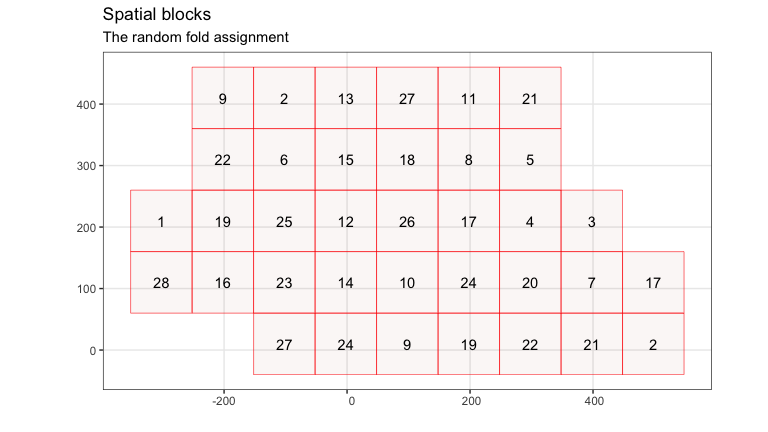
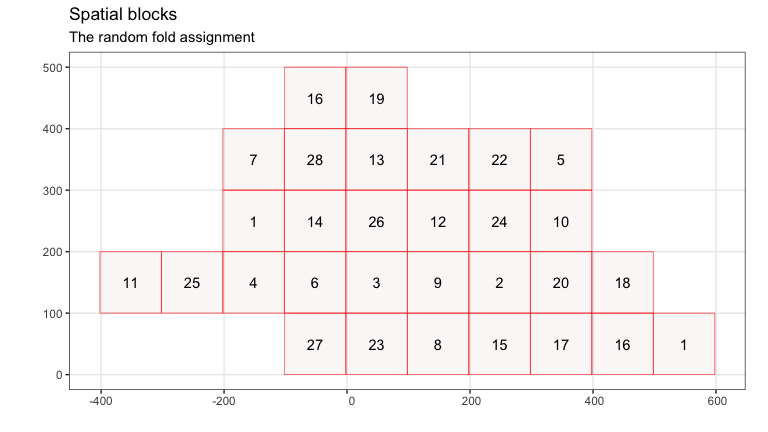
Tweaking BigWoods CV grid

diff --git a/README.md b/README.md
@@ -301,7 +301,9 @@ ggplot() +
 
 ``` r
 bw_cv_grid <- spatialBlock(
-  speciesData = bw_growth_df, theRange = 100, k = 28, yOffset = 0.6, verbose = FALSE
+  speciesData = bw_growth_df, theRange = 100, k = 28, 
+  xOffset = 0.5, yOffset = 0.99999,
+  verbose = FALSE
 )
 ```
 
